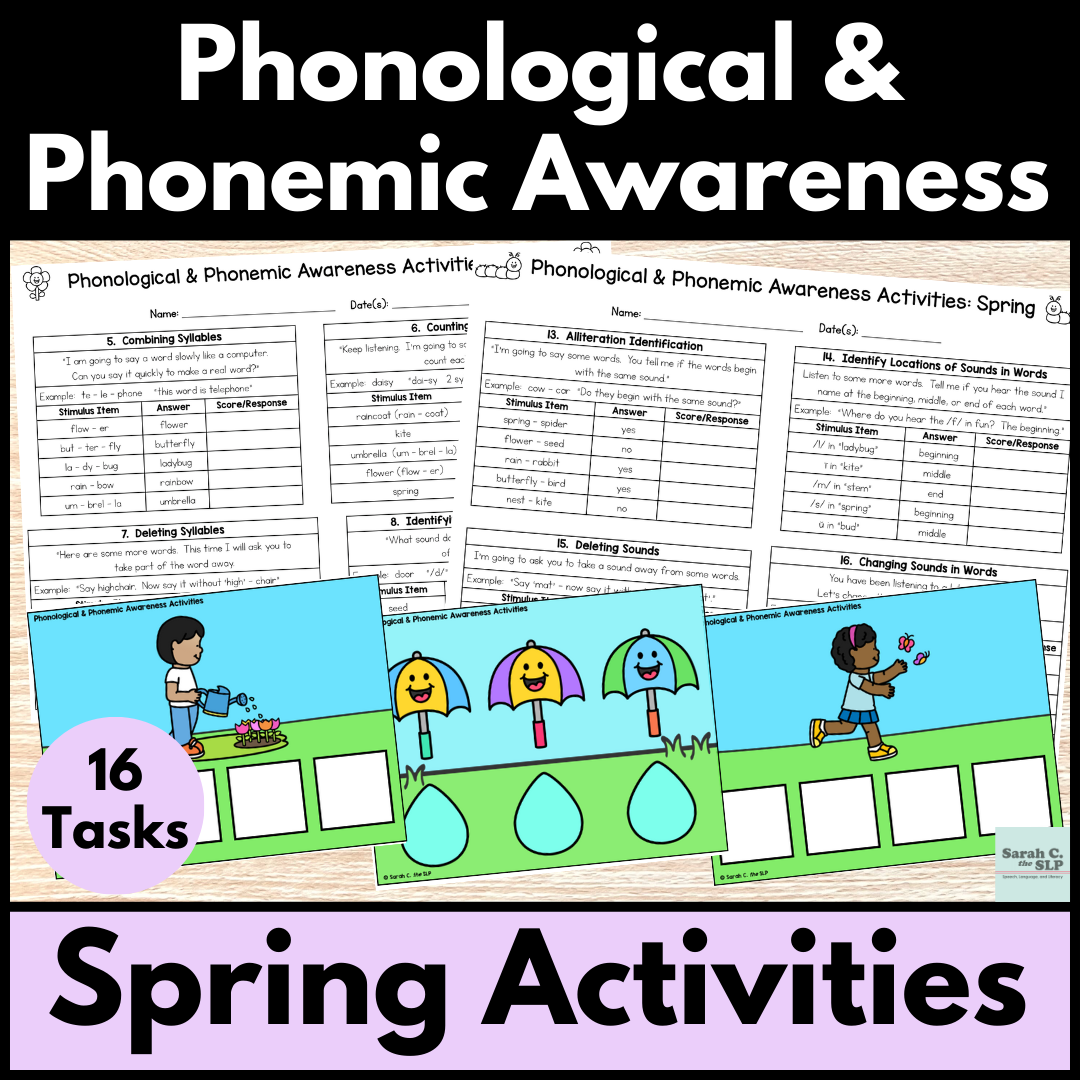
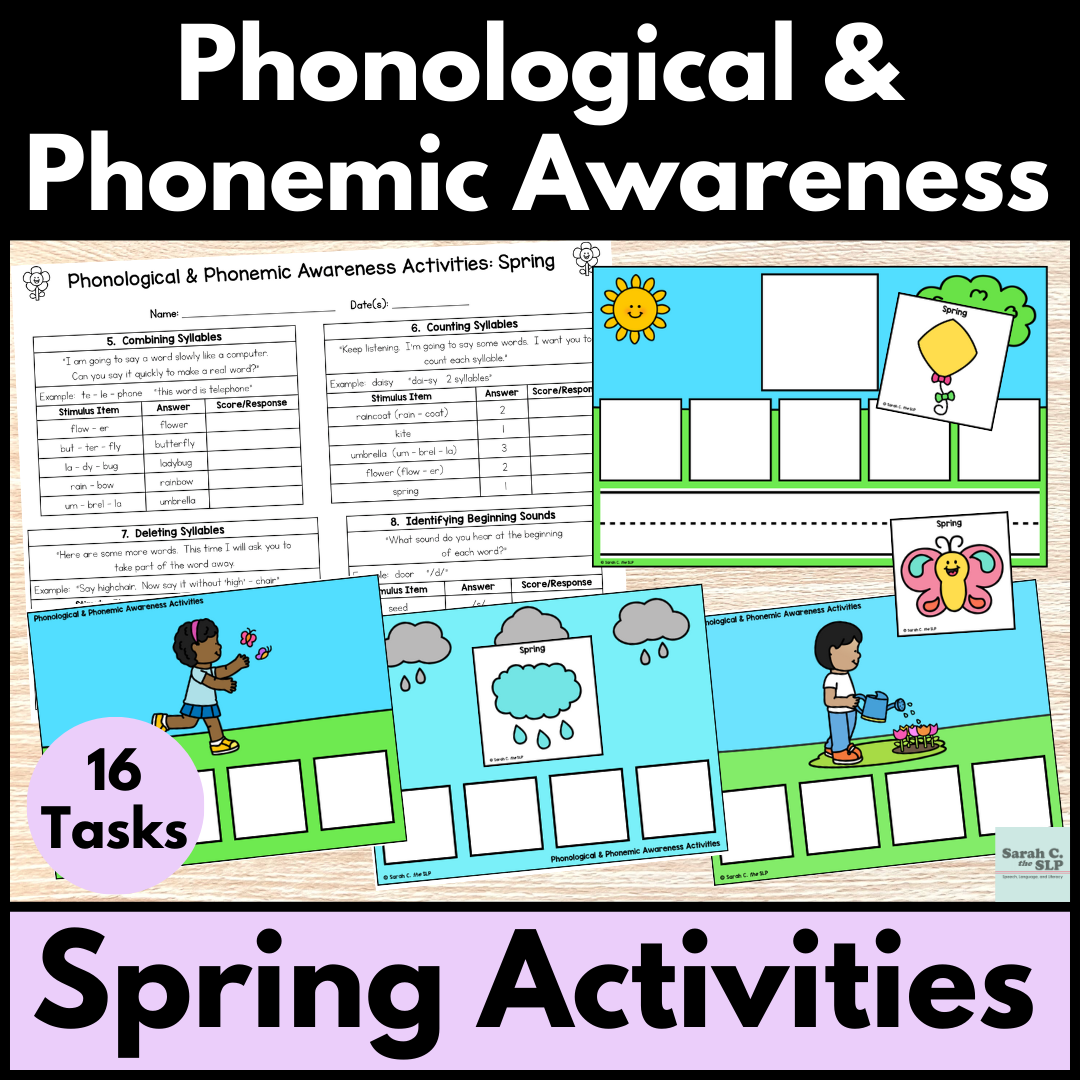
update

diff --git a/phono.html b/phono.html
@@ -12,13 +12,13 @@
 	  gtag('config', 'G-9VVJ693BB0');
 	</script>
 
-	<title>Sarah C the SLP - Apples</title>
+	<title>Sarah C the SLP - Phonological & Phonemic Awareness Activities</title>
 
 	<!-- Meta Tags -->
 	<meta charset="utf-8">
 	<meta name="viewport" content="width=device-width, initial-scale=1, shrink-to-fit=no">
 	<meta name="author" content="Webestica.com">
-	<meta name="description" content="Sarah C the SLP - Apples">
+	<meta name="description" content="Sarah C the SLP - Phonological & Phonemic Awareness Activities">
 
 
 	<!-- Favicon -->
@@ -110,6 +110,7 @@
 													</ul>
 												</li>
 
+
 						<!-- Nav item 3 Post -->
 						<li class="nav-item">
 							<a class="nav-link fs-5" href="freebies.html">Freebies</a>
@@ -170,17 +171,16 @@ Main START -->
 <section class="pb-4 pt-3">
 	<div class="container">
 		<div class="row">
-			<a href="https://www.teacherspayteachers.com/Store/Sarah-C-The-Slp/Category/-11088-Theme-Apples-557483?utm_source=Sarah%20C%20Blog%20&utm_campaign=Header%20Link%20-%20Apples
-">
+			<a href="https://www.teacherspayteachers.com/Store/Sarah-C-The-Slp/Type-of-Resource/Activities/Category/11088-Phonological-amp-Phonemic-Awareness-Phonics-511146">
       <div class="col-12">
-        <div class="card bg-dark-overlay-3 h-300 img-fluid overflow-hidden card-bg-scale text-center" style="background-image:url(assets/images/apples.png);  width: 100%; background-size: cover;">
+        <div class="card bg-dark-overlay-3 h-300 img-fluid overflow-hidden card-bg-scale text-center" style="background-image:url(assets/images/phonicsbanner.png);  width: 100%; background-size: cover;">
           <!-- Card Image overlay -->
 					<div class="card-img-overlay d-flex align-items-center p-3 p-sm-4">
 						<div class="col-md-8 m-auto rounded-3 shadow-lg">
-							<h1 class="text-white display-2">Apple Themed Resources</h1>
+							<h1 class="text-white display-2">Phonological & Phonemic Awareness Activities</h1>
         </div>
       </div>
-		    </div>
+	    </div>
 	</div>
 </a>
 </div>
@@ -295,17 +295,18 @@ font-family: 'quicksand';
 }
 </style>
 
-
 <script>
 
 const data = [
 
-  { "title": "Apple Orchard Color Match & Sort Activities", "pic": "assets/images/applecolormatchandsort.png", "link" : "https://www.teacherspayteachers.com/Product/Apple-Orchard-Color-Match-and-Sort-Printable-and-Digital-Activities-7420668?utm_source=Sarah%20C%20SLP%20Blog&utm_campaign=Apple%20Colors"  },
-  { "title": "Book Companion for Bad Apple with Idioms, Vocabulary, and Verb Activities", "pic": "assets/images/badapple.png", "link" : "https://www.teacherspayteachers.com/Product/Book-Companion-for-Bad-Apple-with-Digital-Slides-7403945?utm_source=Sarah%20C%20Blog%20&utm_campaign=BAD%20APPLE"  },
-  { "title": "Apple Orchard Category Sorting Printable & Digital Activities Bundle", "pic": "assets/images/applecategorybundle.png", "link" : "https://www.teacherspayteachers.com/Product/Apple-Orchard-Sorting-Vocabulary-by-Category-Printable-Digital-Bundle-7386159?utm_source=Sarah%20C%20Blog%20&utm_campaign=Apple%20Category%20Bundle"  },
-  { "title": "Apple Orchard Digital Category Sort", "pic": "assets/images/appledigitalcategorysort.png", "link" : "https://www.teacherspayteachers.com/Product/Apple-Orchard-Sorting-Vocabulary-by-Category-Digital-Slide-Activities-7386018?utm_source=Sarah%20C%20Blog%20&utm_campaign=Apple%20Digital%20Category%20"  },
-  { "title": "Apple Orchard Category Sorting Printable Activities", "pic": "assets/images/applecategorysortprint.png", "link" : "https://www.teacherspayteachers.com/Product/Apple-Orchard-Sorting-Vocabulary-by-Category-Printable-Activity-7379463?utm_source=Sarah%20C%20Blog%20&utm_campaign=Apple%20Category%20Print"  },
-  { "title": "Fall Articulation Open Ended Printable Worksheets for Speech Therapy", "pic": "assets/images/fallarticopenworksheet.png", "link" : "https://www.teacherspayteachers.com/Product/Fall-Articulation-Open-Ended-Printable-Worksheets-for-Speech-Therapy-7295443?utm_source=Sarah%20C%20Blog%20&utm_campaign=Apple%20FAll%20Artic"  }
+	{ "title": "Spring Themed Phonological and Phonemic Awareness Activities for Reading and Speech Therapy", "pic": "assets/images/phonospring.png", "link" : "https://www.teacherspayteachers.com/Product/Spring-Phonological-Phonemic-Awareness-Activities-for-Reading-Speech-Therapy-6952063?utm_source=Sarah%20C%20Blog%20&utm_campaign=Spring%20Phono"  },
+	{ "title": "Fall Themed Phonological and Phonemic Awareness Activities for Reading and Speech Therapy", "pic": "assets/images/phonofall.png", "link" : "https://www.teacherspayteachers.com/Product/Phonological-Phonemic-Awareness-Activities-for-Fall-6944881?utm_source=Sarah%20C%20Blog%20&utm_campaign=Blog%20Phono%20Fall"  },
+	{ "title": "Weather Themed Phonological and Phonemic Awareness Activities for Reading and Speech Therapy", "pic": "assets/images/phonoweather.png", "link" : "https://www.teacherspayteachers.com/Product/Weather-Themed-Phonological-Phonemic-Awareness-Activities-for-Reading-Speech-6951318?utm_source=Sarah%20C%20Blog%20&utm_campaign=Weather%20Phono"  },
+	{ "title": "Winter Themed Phonological and Phonemic Awareness Activities for Reading and Speech Therapy", "pic": "assets/images/phonowinter.png", "link" : "https://www.teacherspayteachers.com/Product/Winter-Phonological-Phonemic-Awareness-Activities-for-Reading-Speech-Therapy-6966366?utm_source=Sarah%20C%20Blog%20&utm_campaign=Winter%20Phono"  },
+	{ "title": "Summer Phonological & Phonemic Awareness Activities for Reading and Speech Therapy", "pic": "assets/images/summerphonofree.png", "link" : "https://www.teacherspayteachers.com/Product/Phonological-Phonemic-Awareness-Activities-for-Summer-6768855?utm_source=Sarah%20C%20Blog%20&utm_campaign=Blog%20Phono%20Summer"  },
+	{ "title": "Pirate and Mermaid Themed Phonological and Phonemic Awareness Activities for Reading and Speech Therapy", "pic": "assets/images/phonopirate.png", "link" : "https://www.teacherspayteachers.com/Product/Pirate-Mermaid-Phonological-Phonemic-Awareness-Activities-for-Reading-6942852?utm_source=Sarah%20C%20Blog%20&utm_campaign=Pirate%20Phono"  },
+	{ "title": "Seasonal Phonological and Phonemic Awareness Activities Bundle for Reading and Speech Therapy", "pic": "assets/images/phonoseason.png", "link" : "https://www.teacherspayteachers.com/Product/Seasonal-Phonological-and-Phonemic-Awareness-Activities-Bundle-for-Reading-6966379?utm_source=Sarah%20C%20Blog%20&utm_campaign=Seasonal%20Phono"  },
+	{ "title": "Back to School Phonological and Phonemic Awareness Activities for Reading and Speech Therapy", "pic": "assets/images/phonoschool.png", "link" : "https://www.teacherspayteachers.com/Product/Back-to-School-Phonological-Phonemic-Awareness-Activities-6744301?utm_source=Sarah%20C%20Blog%20&utm_campaign=Blog%20Phono%20School"  },
 
 ];
 

diff --git a/bookcompanions.html b/bookcompanions.html
@@ -102,7 +102,8 @@
 														<li> <a class="dropdown-item" href="bookcompanions.html">Book Companions</a></li>
 														<li> <a class="dropdown-item" href="fall.html">Fall/Autumn</a></li>
 														<li> <a class="dropdown-item" href="grammar.html">Grammar</a></li>
-												    <li> <a class="dropdown-item" href="literacyskills.html">Literacy Skills</a></li>
+														<li> <a class="dropdown-item" href="literacyskills.html">Literacy Skills</a></li>
+														<li> <a class="dropdown-item" href="phono.html">Phonological & Phonemic Awareness Activities</a></li>
 														<li> <a class="dropdown-item" href="spring.html">Spring</a></li>
 														<li> <a class="dropdown-item" href="summer.html">Summer</a></li>
 														<li> <a class="dropdown-item" href="winter.html">Winter</a></li>

diff --git a/crayons.html b/crayons.html
@@ -101,7 +101,8 @@
 														<li> <a class="dropdown-item" href="bookcompanions.html">Book Companions</a></li>
 														<li> <a class="dropdown-item" href="fall.html">Fall/Autumn</a></li>
 														<li> <a class="dropdown-item" href="grammar.html">Grammar</a></li>
-												    <li> <a class="dropdown-item" href="literacyskills.html">Literacy Skills</a></li>
+														<li> <a class="dropdown-item" href="literacyskills.html">Literacy Skills</a></li>
+														<li> <a class="dropdown-item" href="phono.html">Phonological & Phonemic Awareness Activities</a></li>
 														<li> <a class="dropdown-item" href="spring.html">Spring</a></li>
 														<li> <a class="dropdown-item" href="summer.html">Summer</a></li>
 														<li> <a class="dropdown-item" href="winter.html">Winter</a></li>

diff --git a/fall.html b/fall.html
@@ -101,7 +101,8 @@
 														<li> <a class="dropdown-item" href="bookcompanions.html">Book Companions</a></li>
 														<li> <a class="dropdown-item" href="fall.html">Fall/Autumn</a></li>
 														<li> <a class="dropdown-item" href="grammar.html">Grammar</a></li>
-												    <li> <a class="dropdown-item" href="literacyskills.html">Literacy Skills</a></li>
+														<li> <a class="dropdown-item" href="literacyskills.html">Literacy Skills</a></li>
+														<li> <a class="dropdown-item" href="phono.html">Phonological & Phonemic Awareness Activities</a></li>
 														<li> <a class="dropdown-item" href="spring.html">Spring</a></li>
 														<li> <a class="dropdown-item" href="summer.html">Summer</a></li>
 														<li> <a class="dropdown-item" href="winter.html">Winter</a></li>

diff --git a/index.html b/index.html
@@ -96,6 +96,7 @@
                             <li> <a class="dropdown-item" href="fall.html">Fall/Autumn</a></li>
                             <li> <a class="dropdown-item" href="grammar.html">Grammar</a></li>
                             <li> <a class="dropdown-item" href="literacyskills.html">Literacy Skills</a></li>
+                            <li> <a class="dropdown-item" href="phono.html">Phonological & Phonemic Awareness Activities</a></li>
                             <li> <a class="dropdown-item" href="spring.html">Spring</a></li>
                             <li> <a class="dropdown-item" href="summer.html">Summer</a></li>
                             <li> <a class="dropdown-item" href="winter.html">Winter</a></li>

diff --git a/animal.html b/animal.html
@@ -103,6 +103,7 @@
 														<li> <a class="dropdown-item" href="fall.html">Fall/Autumn</a></li>
 														<li> <a class="dropdown-item" href="grammar.html">Grammar</a></li>
 														<li> <a class="dropdown-item" href="literacyskills.html">Literacy Skills</a></li>
+														<li> <a class="dropdown-item" href="phono.html">Phonological & Phonemic Awareness Activities</a></li>
 														<li> <a class="dropdown-item" href="spring.html">Spring</a></li>
 														<li> <a class="dropdown-item" href="summer.html">Summer</a></li>
 														<li> <a class="dropdown-item" href="winter.html">Winter</a></li>

diff --git a/articulation.html b/articulation.html
@@ -102,6 +102,7 @@
 														<li> <a class="dropdown-item" href="fall.html">Fall/Autumn</a></li>
 														<li> <a class="dropdown-item" href="grammar.html">Grammar</a></li>
 														<li> <a class="dropdown-item" href="literacyskills.html">Literacy Skills</a></li>
+														<li> <a class="dropdown-item" href="phono.html">Phonological & Phonemic Awareness Activities</a></li>
 														<li> <a class="dropdown-item" href="spring.html">Spring</a></li>
 														<li> <a class="dropdown-item" href="summer.html">Summer</a></li>
 														<li> <a class="dropdown-item" href="winter.html">Winter</a></li>

diff --git a/backtoschool.html b/backtoschool.html
@@ -103,6 +103,7 @@
 														<li> <a class="dropdown-item" href="fall.html">Fall/Autumn</a></li>
 														<li> <a class="dropdown-item" href="grammar.html">Grammar</a></li>
 														<li> <a class="dropdown-item" href="literacyskills.html">Literacy Skills</a></li>
+														<li> <a class="dropdown-item" href="phono.html">Phonological & Phonemic Awareness Activities</a></li>
 														<li> <a class="dropdown-item" href="spring.html">Spring</a></li>
 														<li> <a class="dropdown-item" href="summer.html">Summer</a></li>
 														<li> <a class="dropdown-item" href="winter.html">Winter</a></li>

diff --git a/christmas.html b/christmas.html
@@ -102,6 +102,7 @@
 														<li> <a class="dropdown-item" href="fall.html">Fall/Autumn</a></li>
 														<li> <a class="dropdown-item" href="grammar.html">Grammar</a></li>
 														<li> <a class="dropdown-item" href="literacyskills.html">Literacy Skills</a></li>
+														<li> <a class="dropdown-item" href="phono.html">Phonological & Phonemic Awareness Activities</a></li>
 														<li> <a class="dropdown-item" href="spring.html">Spring</a></li>
 														<li> <a class="dropdown-item" href="summer.html">Summer</a></li>
 														<li> <a class="dropdown-item" href="winter.html">Winter</a></li>

diff --git a/freebies.html b/freebies.html
@@ -102,6 +102,7 @@
 														<li> <a class="dropdown-item" href="fall.html">Fall/Autumn</a></li>
 														<li> <a class="dropdown-item" href="grammar.html">Grammar</a></li>
 														<li> <a class="dropdown-item" href="literacyskills.html">Literacy Skills</a></li>
+														<li> <a class="dropdown-item" href="phono.html">Phonological & Phonemic Awareness Activities</a></li>
 														<li> <a class="dropdown-item" href="spring.html">Spring</a></li>
 														<li> <a class="dropdown-item" href="summer.html">Summer</a></li>
 														<li> <a class="dropdown-item" href="winter.html">Winter</a></li>

diff --git a/grammar.html b/grammar.html
@@ -102,6 +102,7 @@
 														<li> <a class="dropdown-item" href="fall.html">Fall/Autumn</a></li>
 														<li> <a class="dropdown-item" href="grammar.html">Grammar</a></li>
 														<li> <a class="dropdown-item" href="literacyskills.html">Literacy Skills</a></li>
+														<li> <a class="dropdown-item" href="phono.html">Phonological & Phonemic Awareness Activities</a></li>
 														<li> <a class="dropdown-item" href="spring.html">Spring</a></li>
 														<li> <a class="dropdown-item" href="summer.html">Summer</a></li>
 														<li> <a class="dropdown-item" href="winter.html">Winter</a></li>

diff --git a/halloween.html b/halloween.html
@@ -102,6 +102,7 @@
 														<li> <a class="dropdown-item" href="fall.html">Fall/Autumn</a></li>
 														<li> <a class="dropdown-item" href="grammar.html">Grammar</a></li>
 														<li> <a class="dropdown-item" href="literacyskills.html">Literacy Skills</a></li>
+														<li> <a class="dropdown-item" href="phono.html">Phonological & Phonemic Awareness Activities</a></li>
 														<li> <a class="dropdown-item" href="spring.html">Spring</a></li>
 														<li> <a class="dropdown-item" href="summer.html">Summer</a></li>
 														<li> <a class="dropdown-item" href="winter.html">Winter</a></li>
